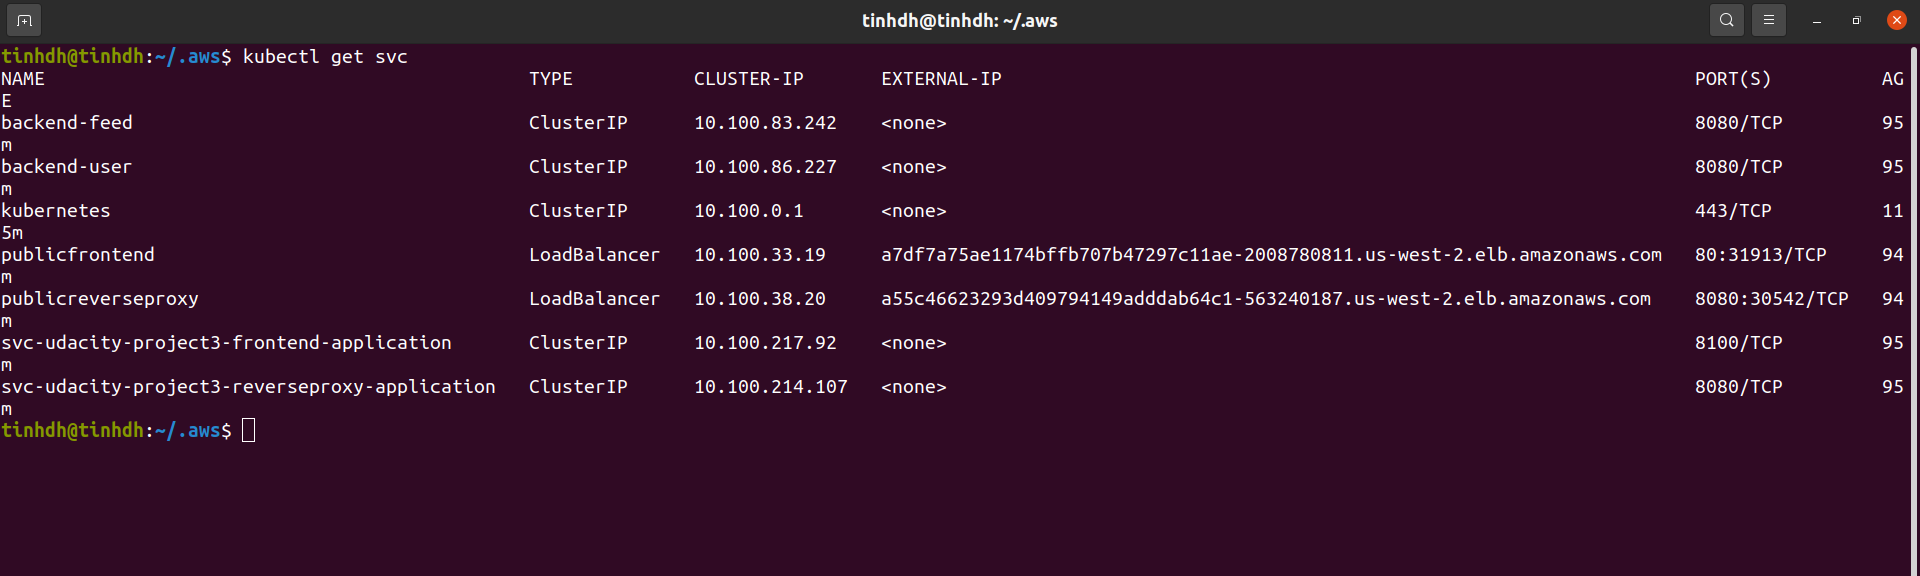
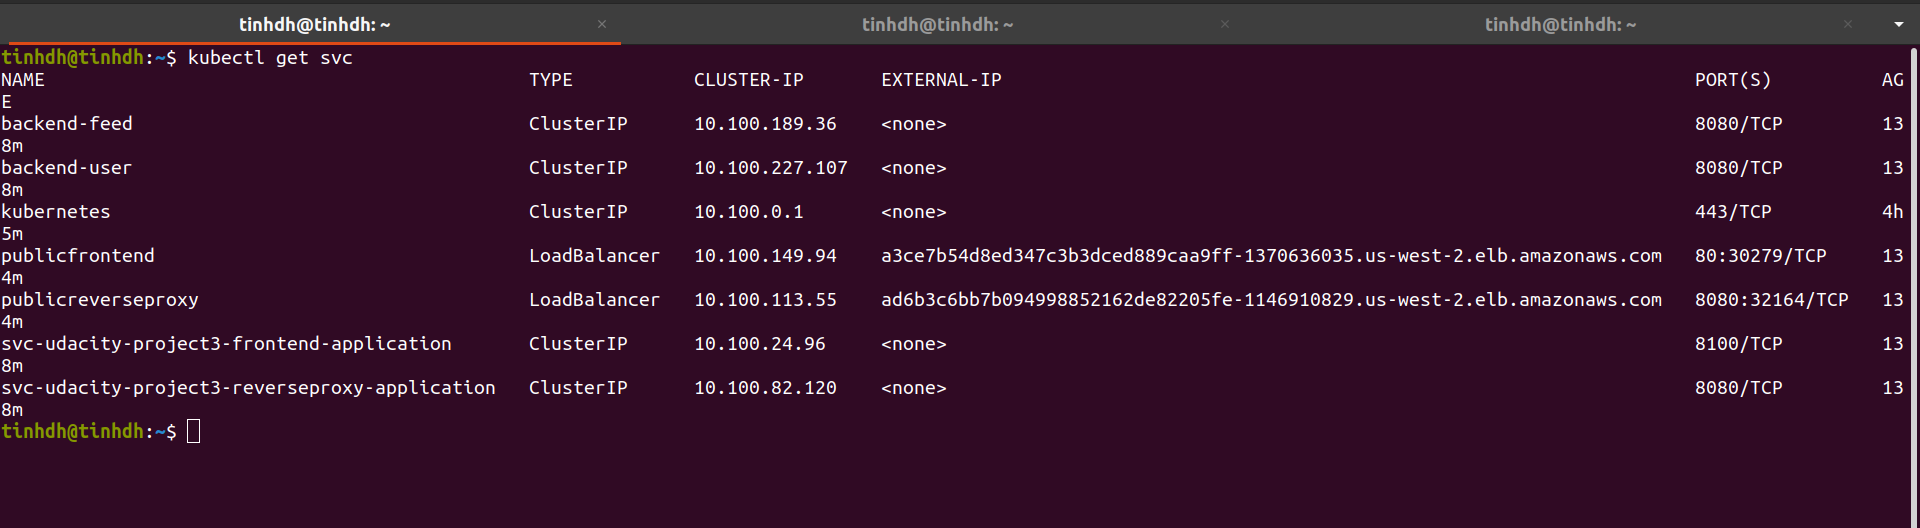
update follow review

diff --git a/udagram-api-feed/src/server.ts b/udagram-api-feed/src/server.ts
@@ -28,6 +28,7 @@ import {V0_FEED_MODELS} from './controllers/v0/model.index';
       'Origin', 'X-Requested-With',
       'Content-Type', 'Accept',
       'X-Access-Token', 'Authorization',
+      'Access-Control-Allow-Origin'
     ],
     methods: 'GET,HEAD,OPTIONS,PUT,PATCH,POST,DELETE',
     preflightContinue: true,

diff --git a/udagram-api-user/src/server.ts b/udagram-api-user/src/server.ts
@@ -28,6 +28,7 @@ import {V0_USER_MODELS} from './controllers/v0/model.index';
       'Origin', 'X-Requested-With',
       'Content-Type', 'Accept',
       'X-Access-Token', 'Authorization',
+      'Access-Control-Allow-Origin'
     ],
     methods: 'GET,HEAD,OPTIONS,PUT,PATCH,POST,DELETE',
     preflightContinue: true,

diff --git a/udagram-frontend/src/environments/environment.prod.ts b/udagram-frontend/src/environments/environment.prod.ts
@@ -5,7 +5,7 @@
 export const environment = {
   production: false,
   appName: 'Udagram',
-  apiHost: 'http://a55c46623293d409794149adddab64c1-563240187.us-west-2.elb.amazonaws.com:8080/api/v0'
+  apiHost: 'http://ad6b3c6bb7b094998852162de82205fe-1146910829.us-west-2.elb.amazonaws.com:8080/api/v0'
 };
 
 /*

diff --git a/udagram-frontend/src/environments/environment.ts b/udagram-frontend/src/environments/environment.ts
@@ -5,7 +5,7 @@
 export const environment = {
   production: false,
   appName: 'Udagram',
-  apiHost: 'http://a55c46623293d409794149adddab64c1-563240187.us-west-2.elb.amazonaws.com:8080/api/v0'
+  apiHost: 'http://ad6b3c6bb7b094998852162de82205fe-1146910829.us-west-2.elb.amazonaws.com:8080/api/v0'
 };
 
 /*
